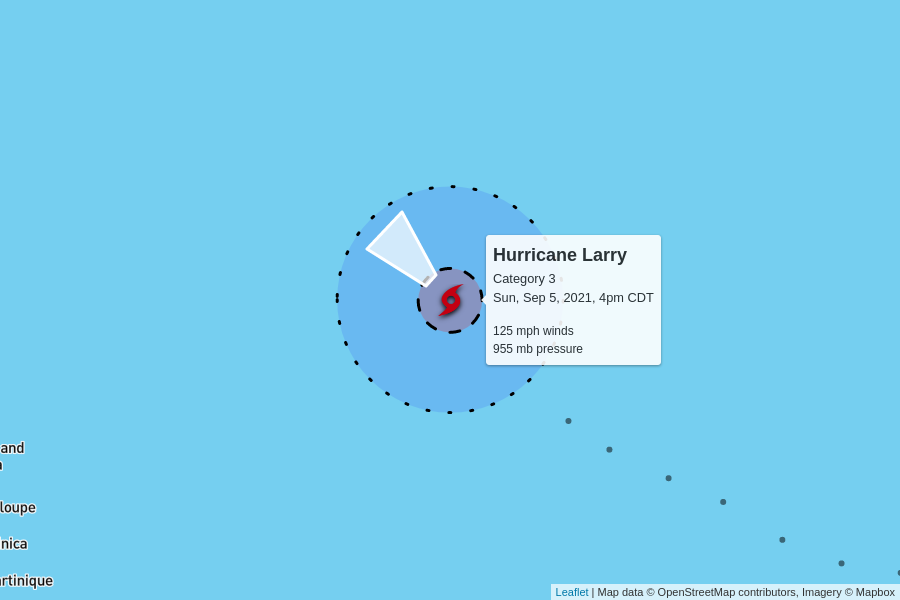
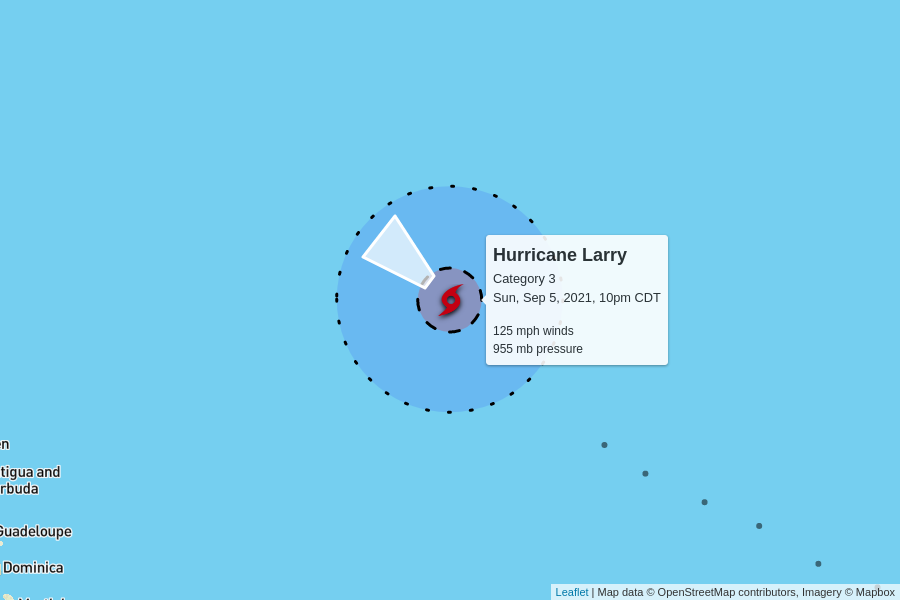
automatic update

diff --git a/docs/index.html b/docs/index.html
@@ -100,7 +100,7 @@
         <td colspan="6" class="storm category-3">
           <h2>
             Hurricane Larry - Category 3
-            <p class="updated">last updated <span data-time>2021-09-05T21:00:00.000Z</span></p>
+            <p class="updated">last updated <span data-time>2021-09-06T03:00:00.000Z</span></p>
           </h2>
         </td>
       </tr>
@@ -118,9 +118,9 @@
         <td>125 mph</td>
         <td>955 mb</td>
         <td>
-          13 mph to the northwest
+          12 mph to the northwest
           <br/>
-          <span style="display: inline-block; font-size: 1.5em; transform: rotate(315deg);">↑</span>
+          <span style="display: inline-block; font-size: 1.5em; transform: rotate(310deg);">↑</span>
         </td>
         <td><a href="https://raw.githubusercontent.com/mgwalker/atlantic-hurricanes/main/data/csv/AL122021.csv">AL122021.csv</a></td>
         <td><a href="https://www.nhc.noaa.gov/archive/2021/LARRY.shtml?">NHC advisories</a></td>
